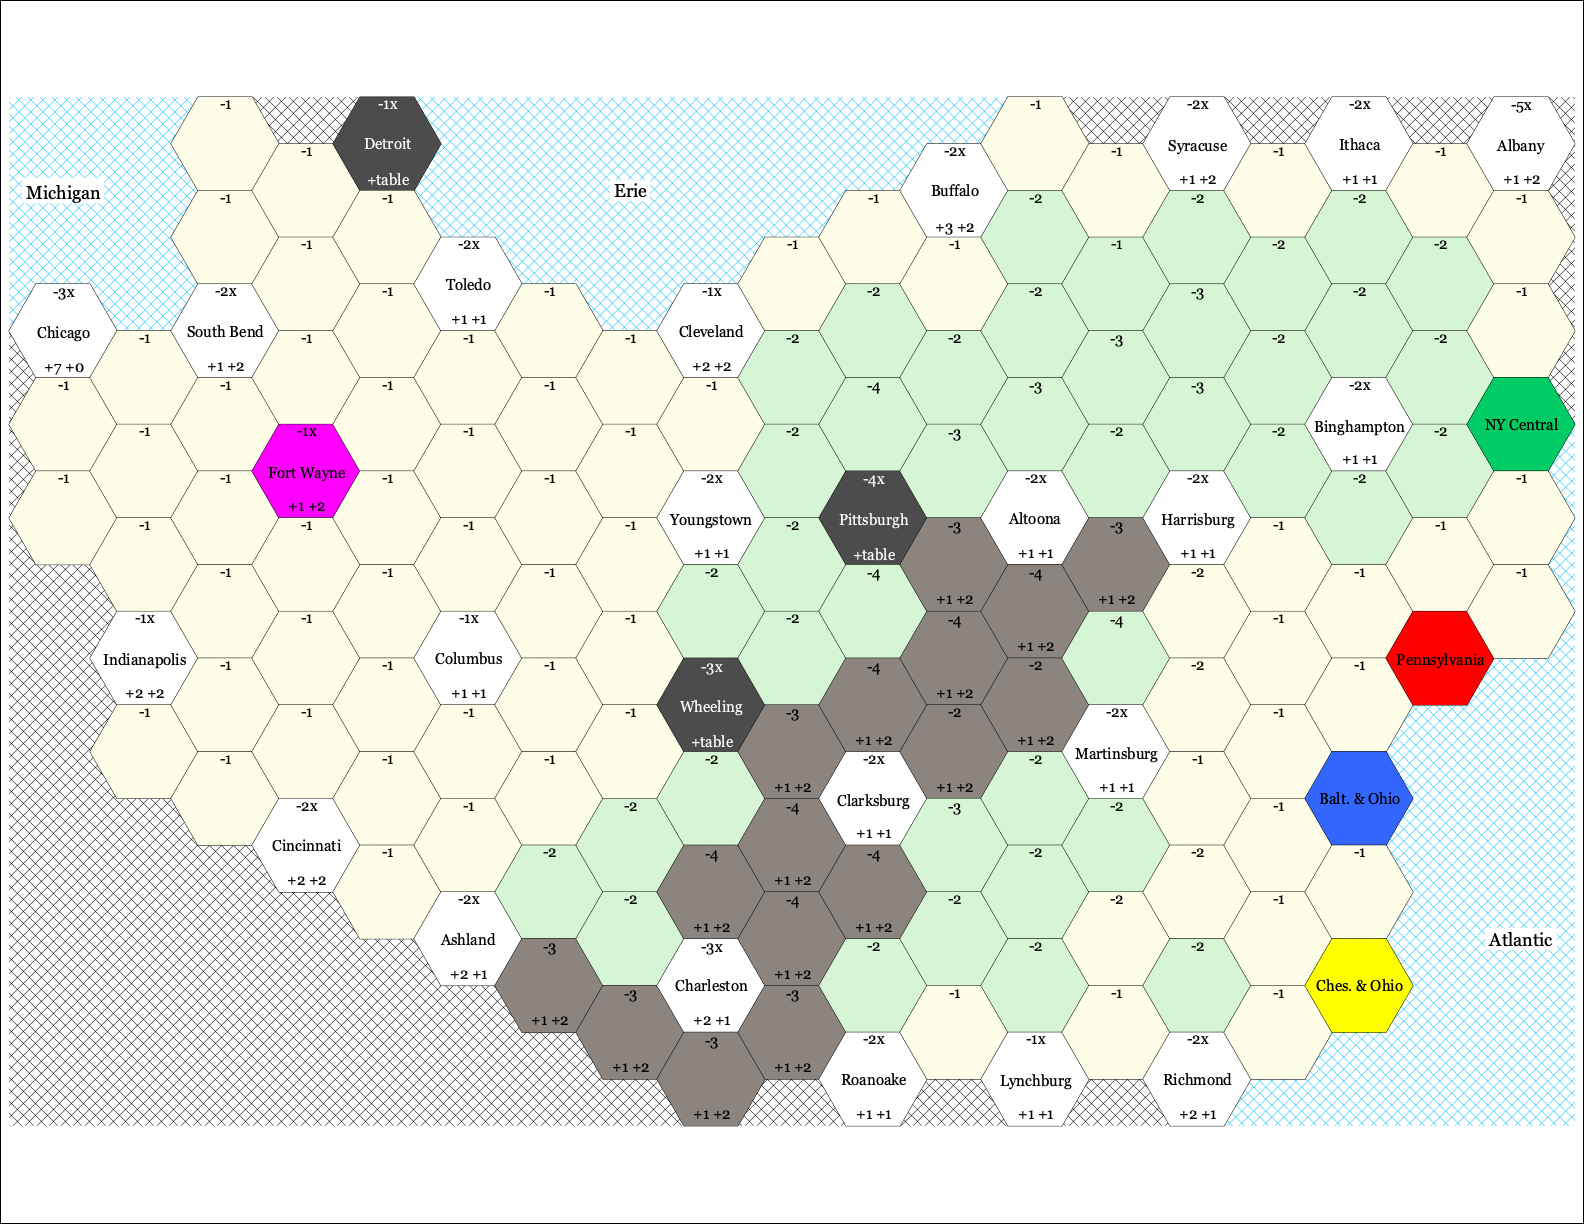
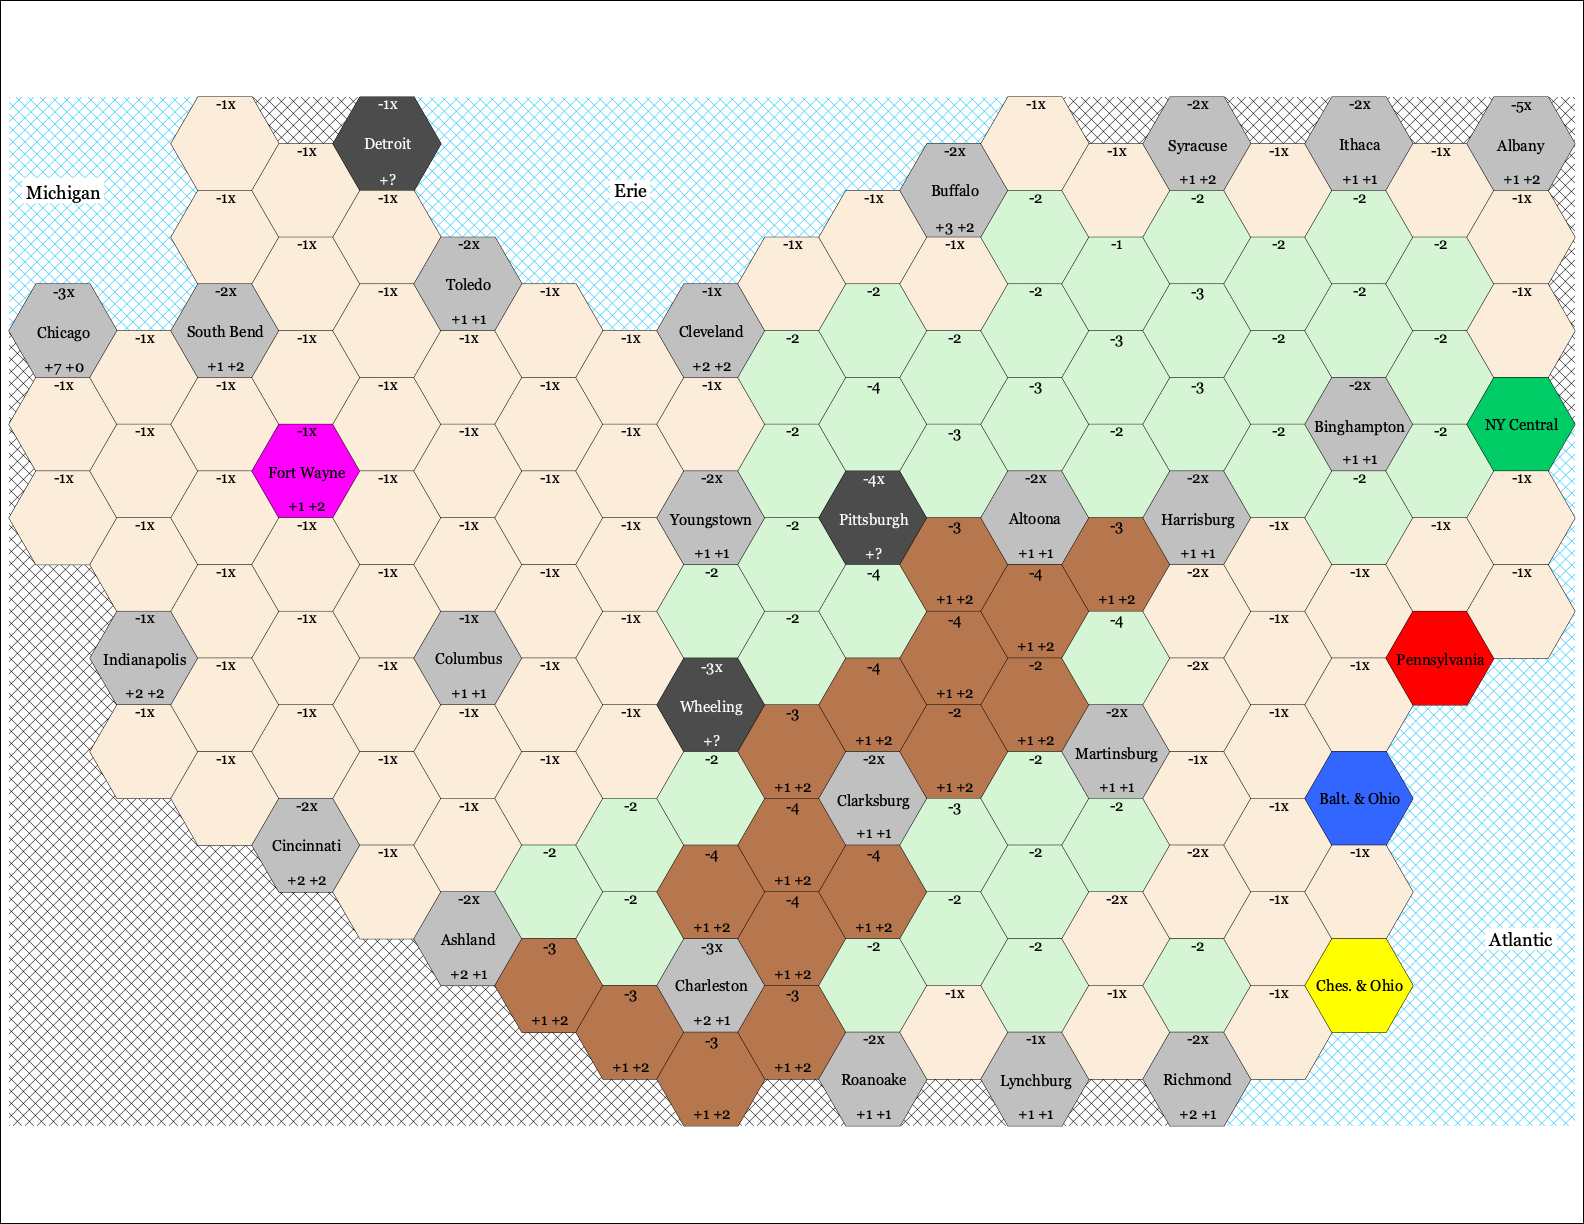
Wabash Cannonball: map update

diff --git a/wabash_cannonball/gen_map2.py b/wabash_cannonball/gen_map2.py
@@ -26,13 +26,14 @@ color_blue = (0x33/255.0, 0x66/255.0, 0xff/255.0)
 color_yellow = (1, 1, 0)
 color_magenta = (1, 0, 1)
 
-color_city = (255, 255, 255)
+#color_city = (255, 255, 255)
+color_city = (192/255.0, 192/255.0, 192/255.0)
 #color_city = (0xf9/255.0, 0xC9/255.0, 0xC4/255.0)
 color_industrial = (.3,.3,.3)
 color_water = (0x0, 0xBf/255.0, 0xff)
-color_plains = (0xfe/255.0, 0xfe/255.0, 0xe8/255.0)
+color_plains = (251/255.0, 237/255.0, 218/255.0)
 color_forest = (0xd5/255.0, 0xf5/255.0, 0xd5/255.0)
-color_mountain = (0x8c/255.0, 0x84/255.0, 0x7f/255.0)
+color_mountain = (182/255.0, 119/255.0, 79/255.0)
 
 ###############################################################################
 # measuring, coordinates
@@ -135,7 +136,7 @@ for i,key in enumerate(industrials):
 	lookup[key]['text'] = names[i]
 	lookup[key]['fill'] = color_industrial
 	lookup[key]['header'] = '-%dx' % costs[i]
-	lookup[key]['footer'] = '+table'
+	lookup[key]['footer'] = '+?'
 	lookup[key]['text_color'] = color_white
 
 # 4/6 mountains
@@ -143,7 +144,7 @@ mountains = 'S7 T8 Q9 U9 N10 P10 R10 T10 M11 Q11 J12 L12 N12 K13 M13 J14'.split(
 costs = [3, 3, 4, 3, 3, 4, 4, 3, 4, 4, 3, 4, 2, 4, 2, 3]
 assert len(mountains) == len(costs)
 for i,key in enumerate(mountains):
-	lookup[key]['header'] = '-%d' % costs[i]
+	lookup[key]['header'] = '-%d' % costs[i] # no 'x', only 1 company on mountains, forrests
 	lookup[key]['footer'] = '+1 +2'
 	lookup[key]['fill'] = color_mountain
 
@@ -152,7 +153,7 @@ forests = 'Q7 P8 R8 K9 O9 F10 H10 J10 L10 E11 G11 K11 S11 F12 H12 P12 R12 C13 E1
 costs = [2, 2, 2, 2, 2, 2, 2, 2, 2, 2, 4, 4, 2, 2, 3, 3, 2, 2, 2, 3, 2, 2, 2, 1, 3, 2, 4, 2, 2, 3, 3, 2, 2, 2, 2, 2, 2, 2, 2, 2, 2]
 assert(len(forests) == len(costs))
 for i,key in enumerate(forests):
-	lookup[key]['header'] = '-%d' % costs[i]
+	lookup[key]['header'] = '-%d' % costs[i] # no 'x', only 1 company on mountains, forrests
 	#lookup[key]['footer'] = '+$2'
 	lookup[key]['fill'] = color_forest
 
@@ -166,7 +167,7 @@ coord2cost['M15'] = 2
 coord2cost['Q15'] = 2
 coord2cost['R14'] = 2
 for (coord,cost) in coord2cost.items():
-	lookup[coord]['header'] = '-' + str(cost)
+	lookup[coord]['header'] = '-%dx' % cost
 	lookup[coord]['fill'] = color_plains
 
 ###############################################################################
@@ -330,4 +331,4 @@ if DEBUG:
 	write('final image size: %dx%d (ratio:%f)' % \
 	  (width_px, height_px, 1.0*width_px/height_px), color_black, 128, 32)
 
-surface.write_to_png("/tmp/quick.png")
+surface.write_to_png("./map2.png")

diff --git a/wabash_cannonball/gen_map1.py b/wabash_cannonball/gen_map1.py
@@ -347,4 +347,4 @@ if DEBUG:
 	write('final image size: %dx%d (ratio:%f)' % \
 	  (width_px, height_px, 1.0*width_px/height_px), color_black, 128, 32)
 
-surface.write_to_png("/tmp/quick.png")
+surface.write_to_png("./map1.png")
